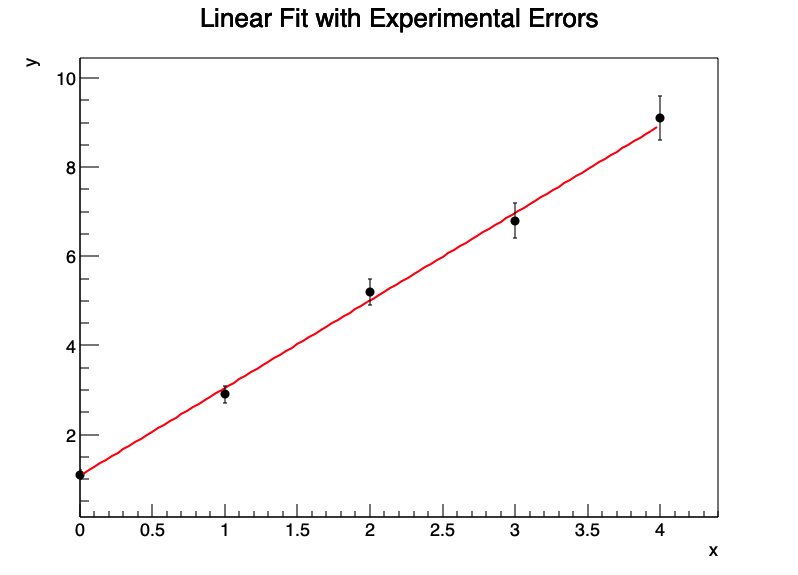
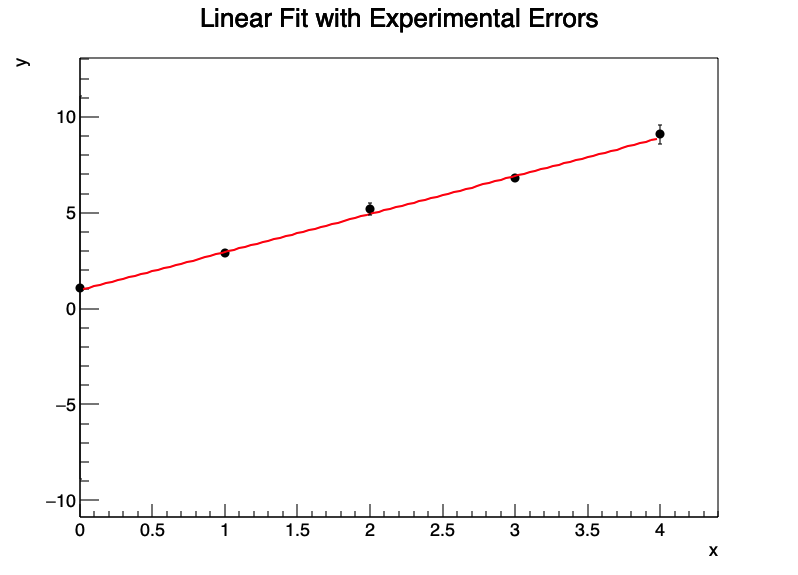
update lesson19

diff --git a/lessons/lesson19.C b/lessons/lesson19.C
@@ -12,7 +12,7 @@ void lesson19()
     double x[n] = {0, 1, 2, 3, 4};
     double y[n] = {1.1, 2.9, 5.2, 6.8, 9.1};
     double ex[n] = {0, 0, 0, 0, 0};
-    double ey[n] = {0.1, 0.2, 0.3, 0.4, 0.5};
+    double ey[n] = {10.0, 0.2, 0.3, 0.2, 0.5};
 
     TGraphErrors *graph = new TGraphErrors(n, x, y, ex, ey);
     graph->SetTitle("Linear Fit with Experimental Errors;" "x;" "y;");
